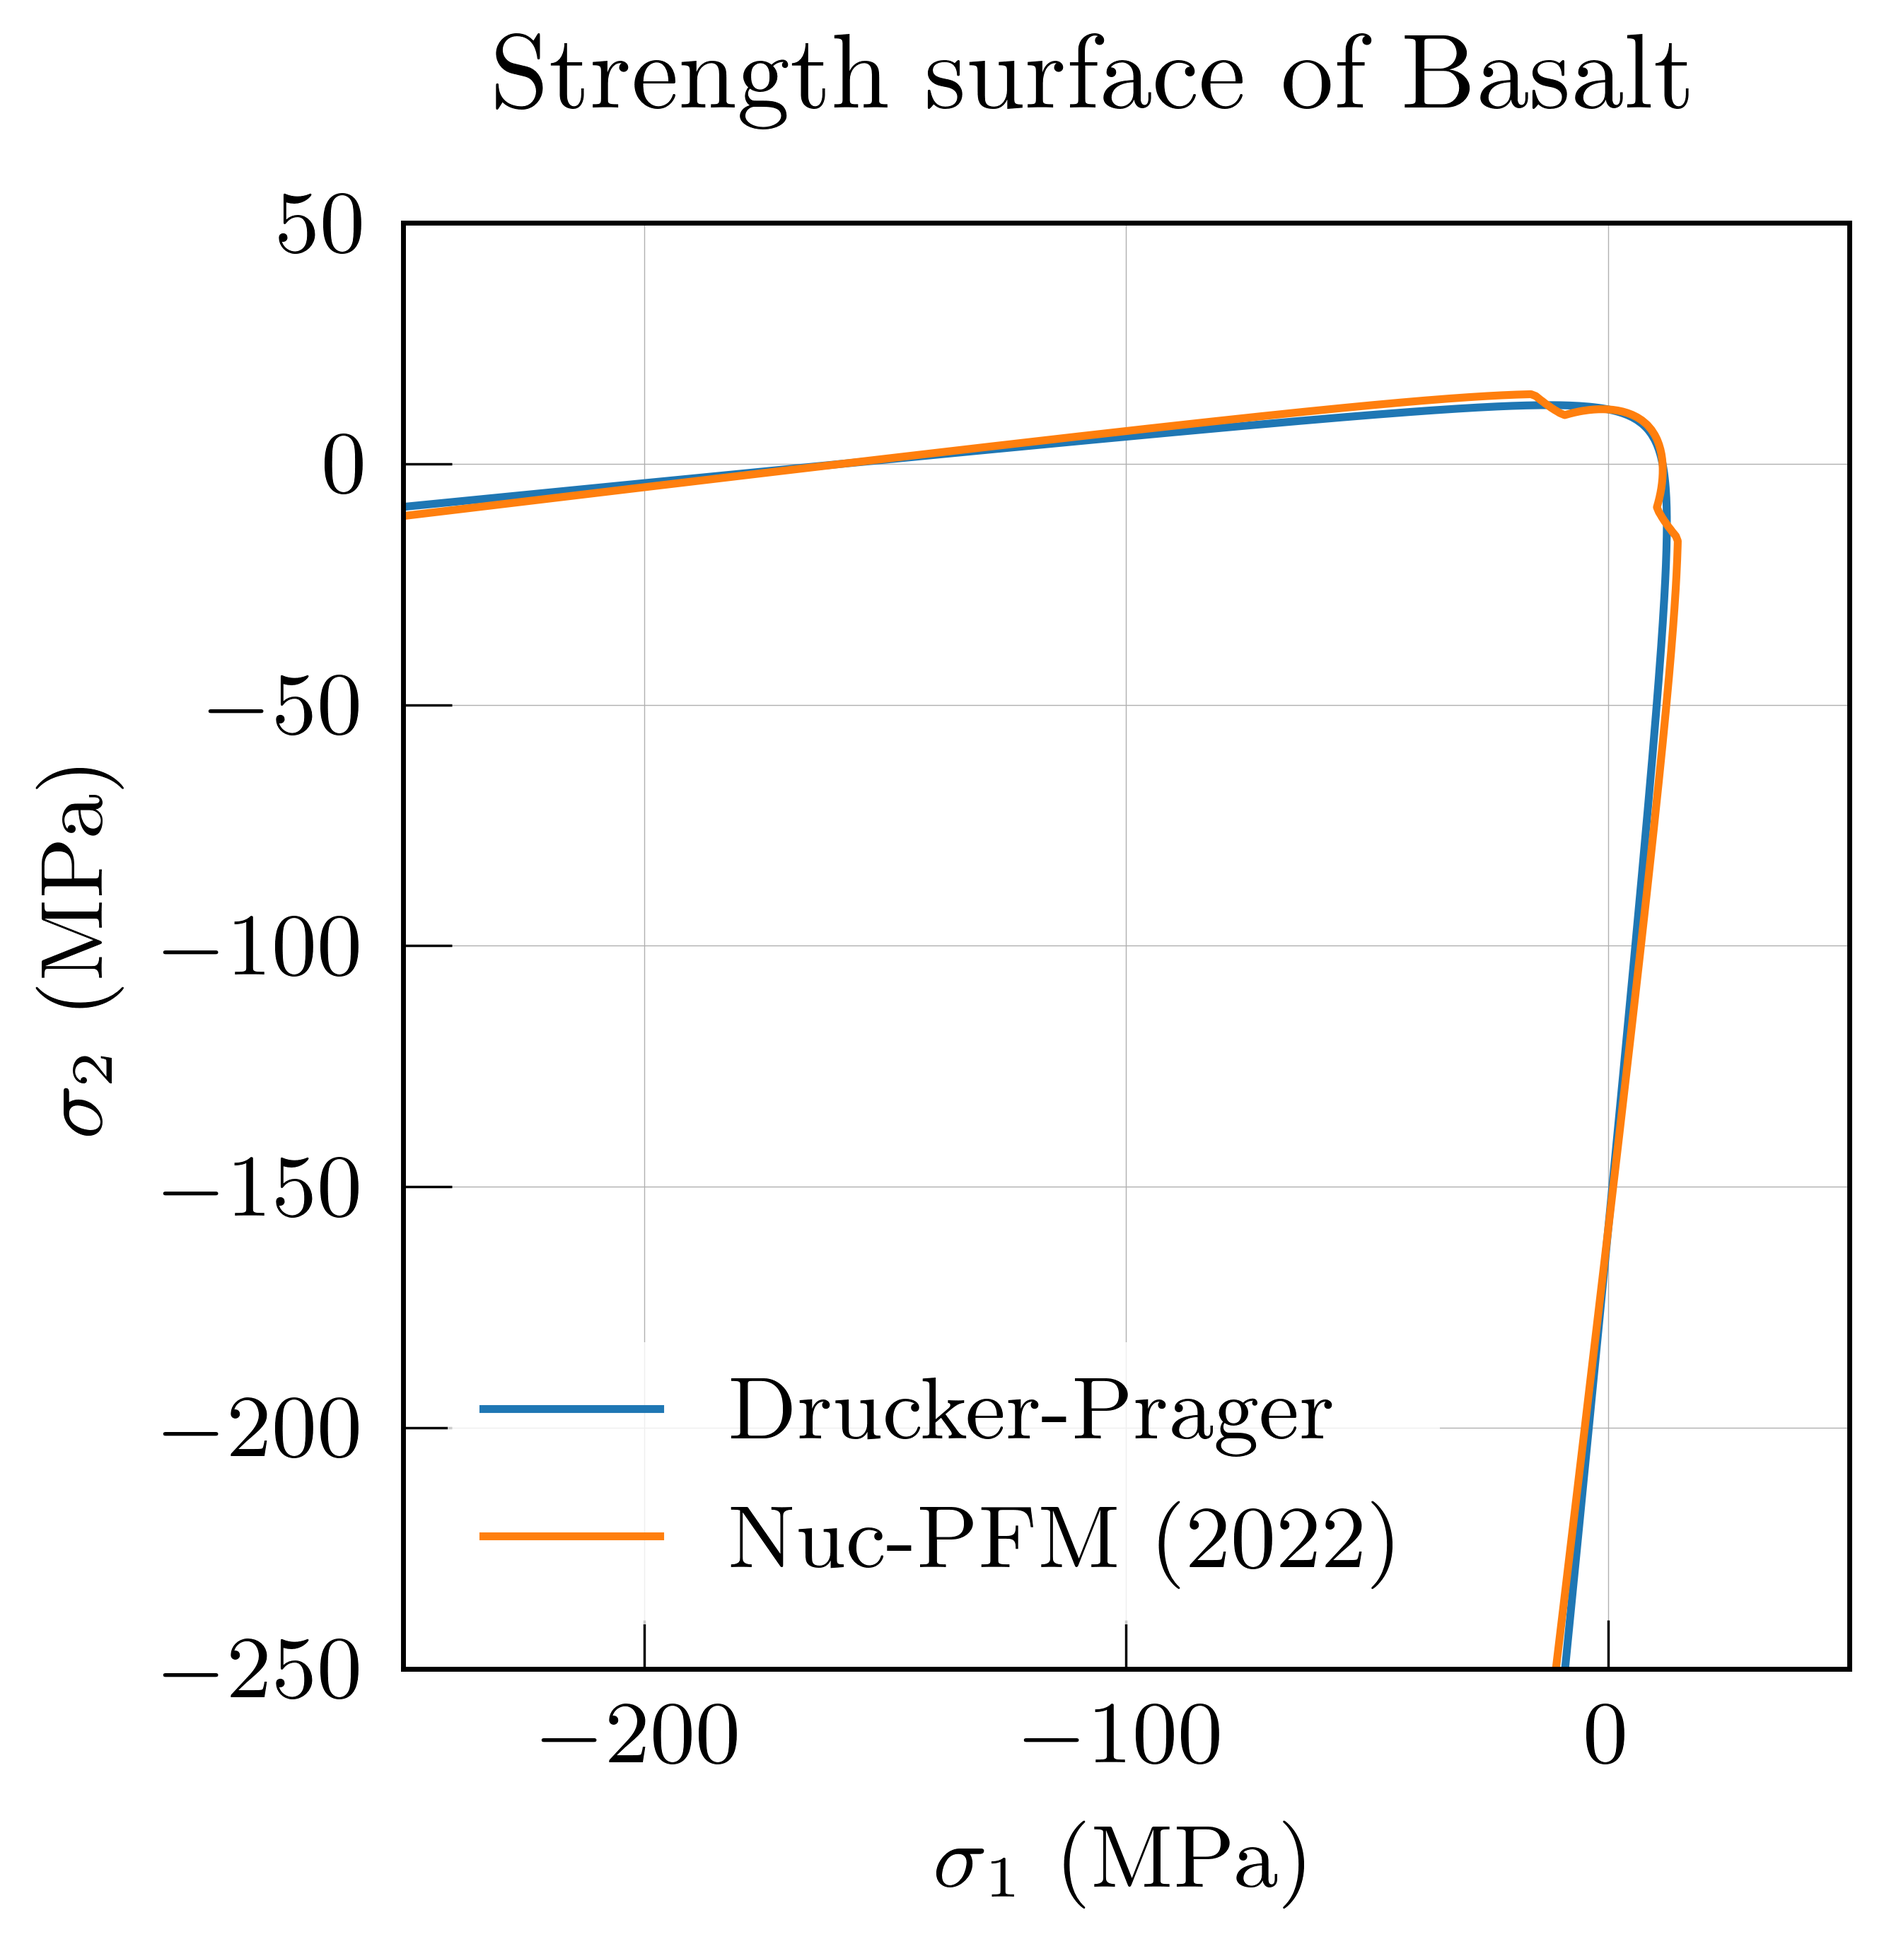
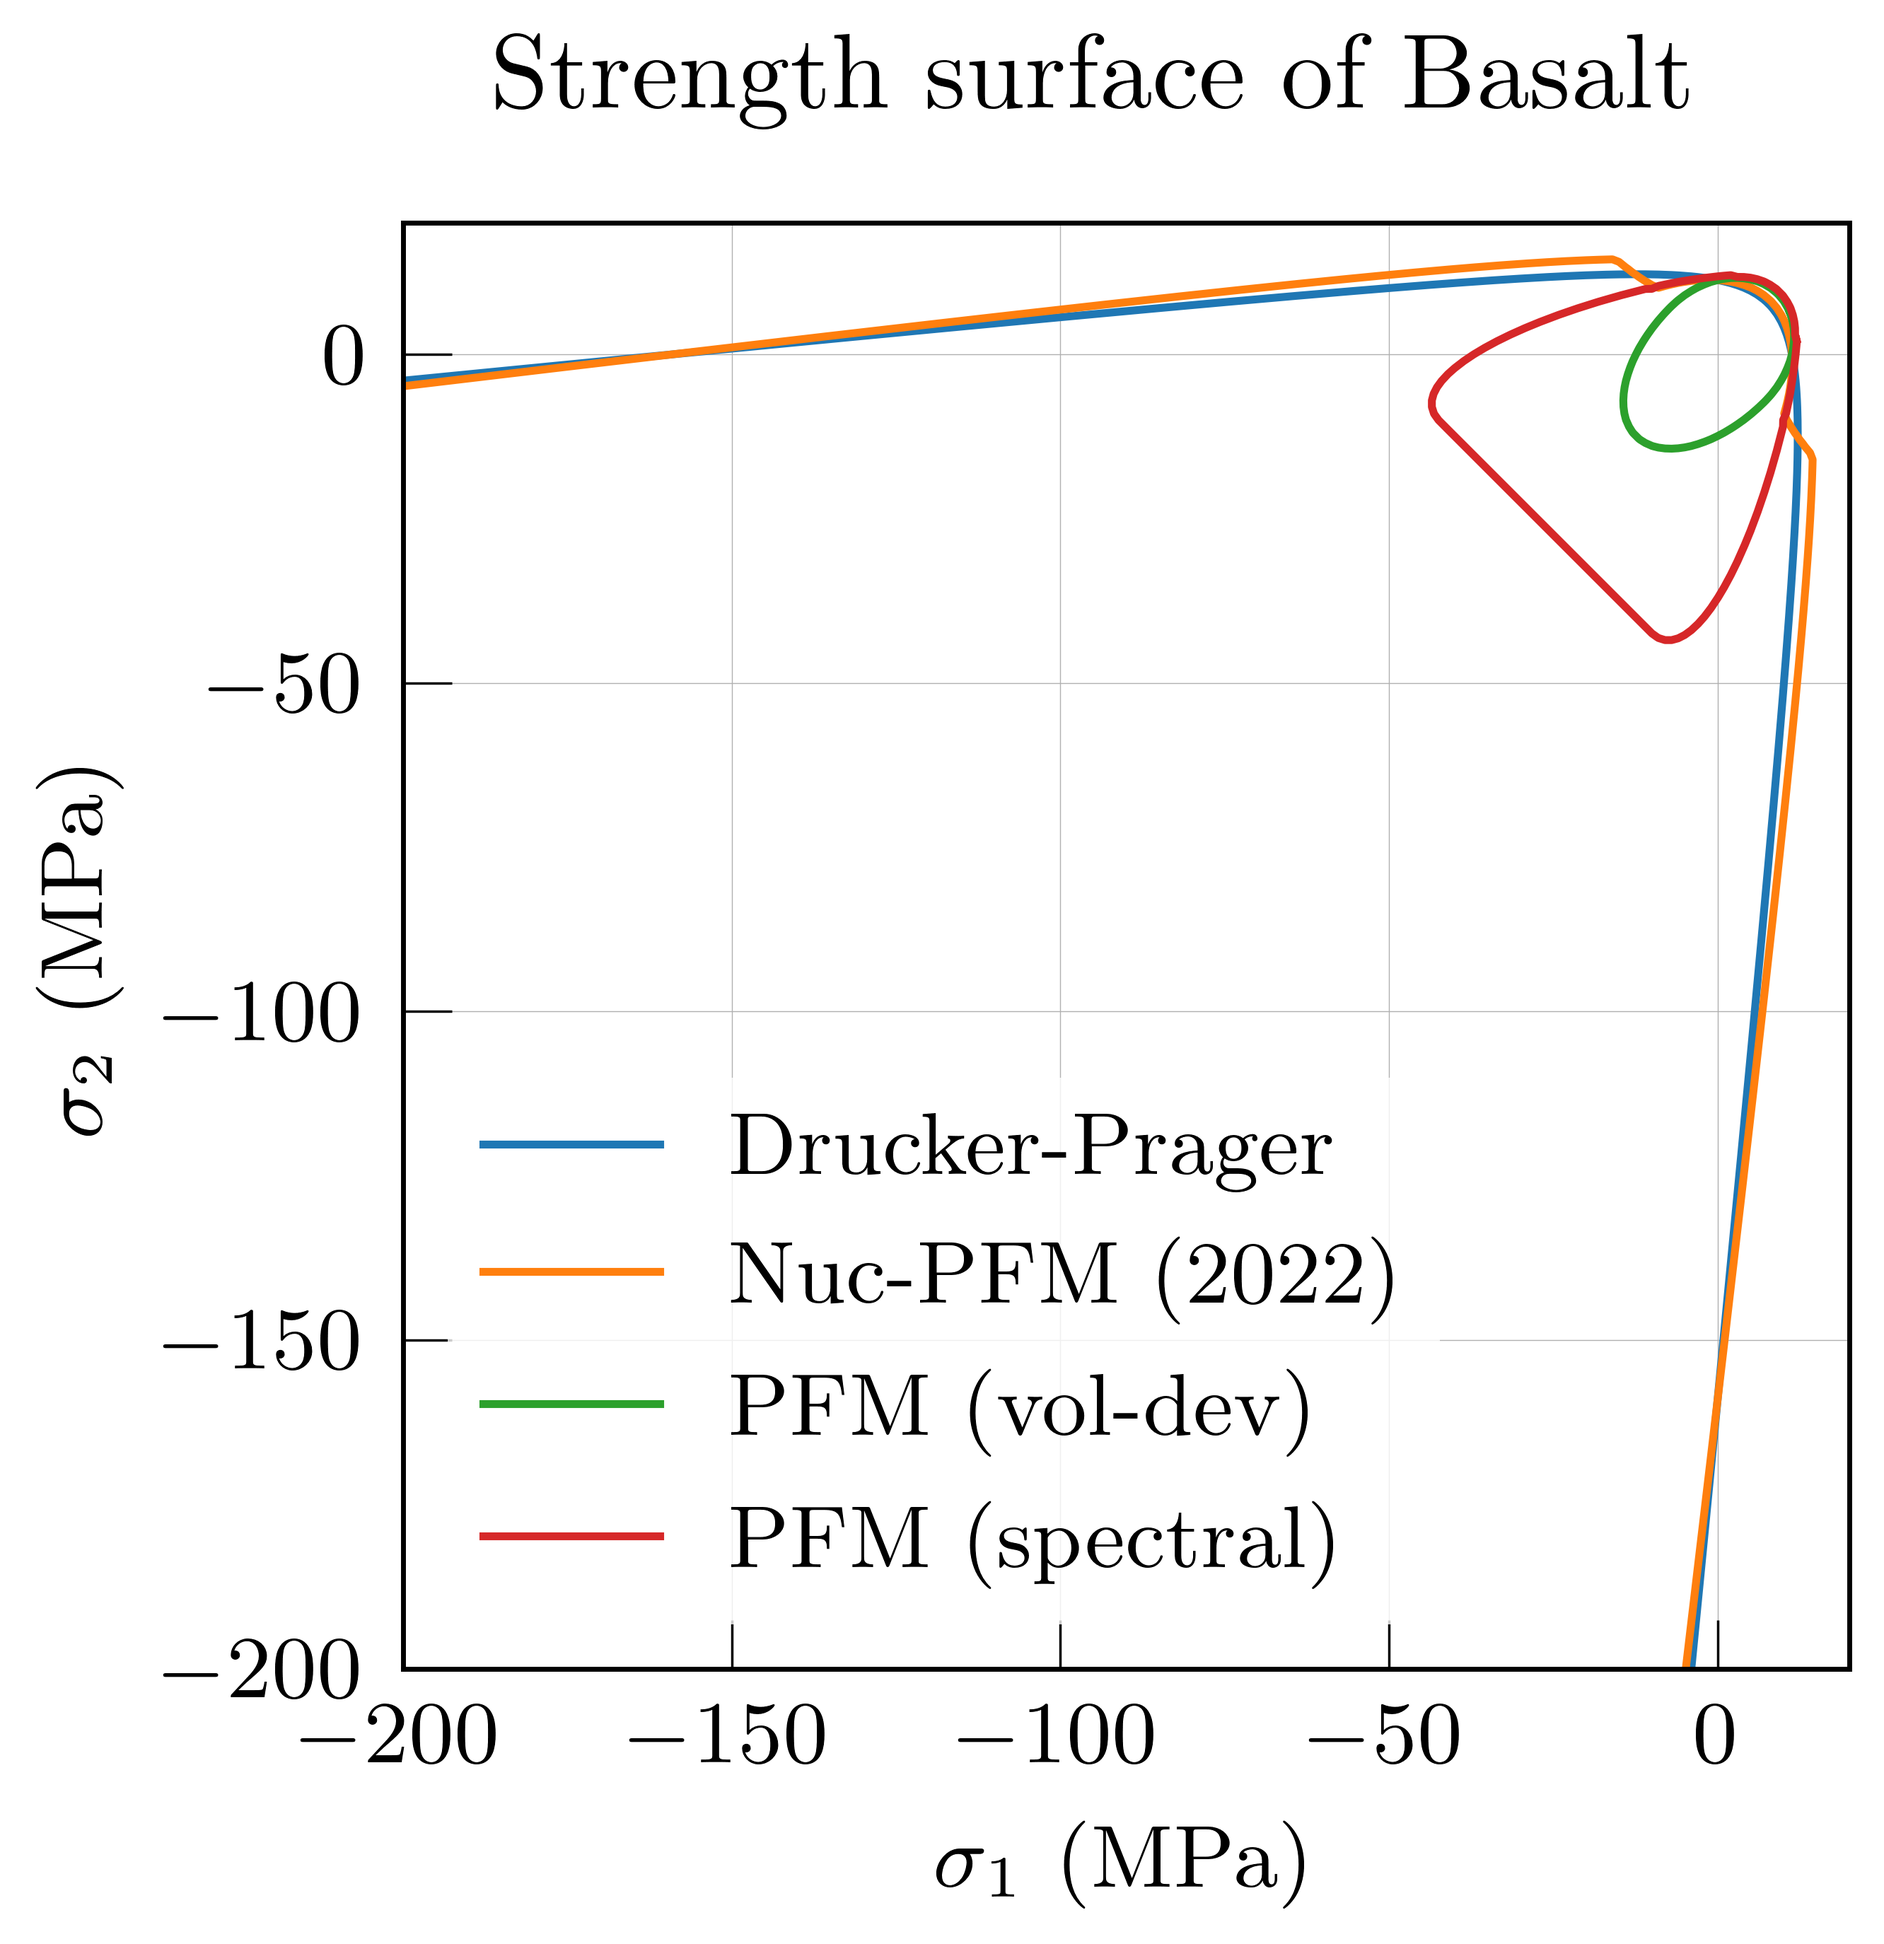
add spectral and vd

diff --git a/app/strength/ss_basalt.py b/app/strength/ss_basalt.py
@@ -26,29 +26,43 @@ ell = 1
 delta = 0
 
 drucker = {
-    "mname": "pmma",
+    "mname": "basalt",
     "stype": "DRUCKER",
     "props": [sigma_ts, sigma_cs],
     "srange": [-300, 30, 331],
 }
 
 nuc2022 = {
-    "mname": "pmma",
+    "mname": "basalt",
     "stype": "KLRNUC",
     "props": [sigma_ts, sigma_cs, mu, lbda, K, Gc, ell, delta],
     "srange": [-300, 30, 331],
 }
 
+voldev = {
+    "mname": "basalt",
+    "stype": "VOLDEV",
+    "props": [sigma_ts, mu, K],
+    "srange": [-300, 30, 331],
+}
+
+spectral = {
+    "mname": "basalt",
+    "stype": "SPECTRAL",
+    "props": [sigma_ts, lbda, mu, K, nu],
+    "srange": [-300, 30, 331],
+}
+
 # %% surface gen
 # ss = [vms, drucker]
-ss = [drucker, nuc2022]
+ss = [drucker, nuc2022, voldev, spectral]
 
 for s in ss:
     data_dir = f"../../data/strength/ss_{s['mname']}_{s['stype']}_props{s['props']}_srange{s['srange']}.npy"
     surface = StrengthSurface(s["stype"], s["props"], s["srange"], data_dir)
     surface.gen()
     plotter = SurfacePlotter(data_dir)
-    ax = plotter.plot(dim=2, save=True)
+    ax = plotter.plot(dim=2, save=False)
 
 # %% 2d contour plot
 import matplotlib.pyplot as plt
@@ -66,7 +80,7 @@ labels = {
     'KLRNUC':"Nuc-PFM (2022)",
 }
 
-ss1 = [drucker, nuc2022]
+ss1 = [drucker, nuc2022, voldev, spectral]
 for s in ss1:
     data_dir = f"../../data/strength/ss_{s['mname']}_{s['stype']}_props{s['props']}_srange{s['srange']}.npy"
     plotter = SurfacePlotter(data_dir)
@@ -75,8 +89,8 @@ for s in ss1:
 # annotate
 fig.suptitle("Strength surface of Basalt")
 ax.set_aspect("equal")
-ax.set_xlim([-250, 50])
-ax.set_ylim([-250, 50])
+ax.set_xlim([-200, 20])
+ax.set_ylim([-200, 20])
 ax.set_xlabel("$\sigma_{1}$ (MPa)")
 ax.set_ylabel("$\sigma_{2}$ (MPa)")
 ax.legend(loc='lower left')
